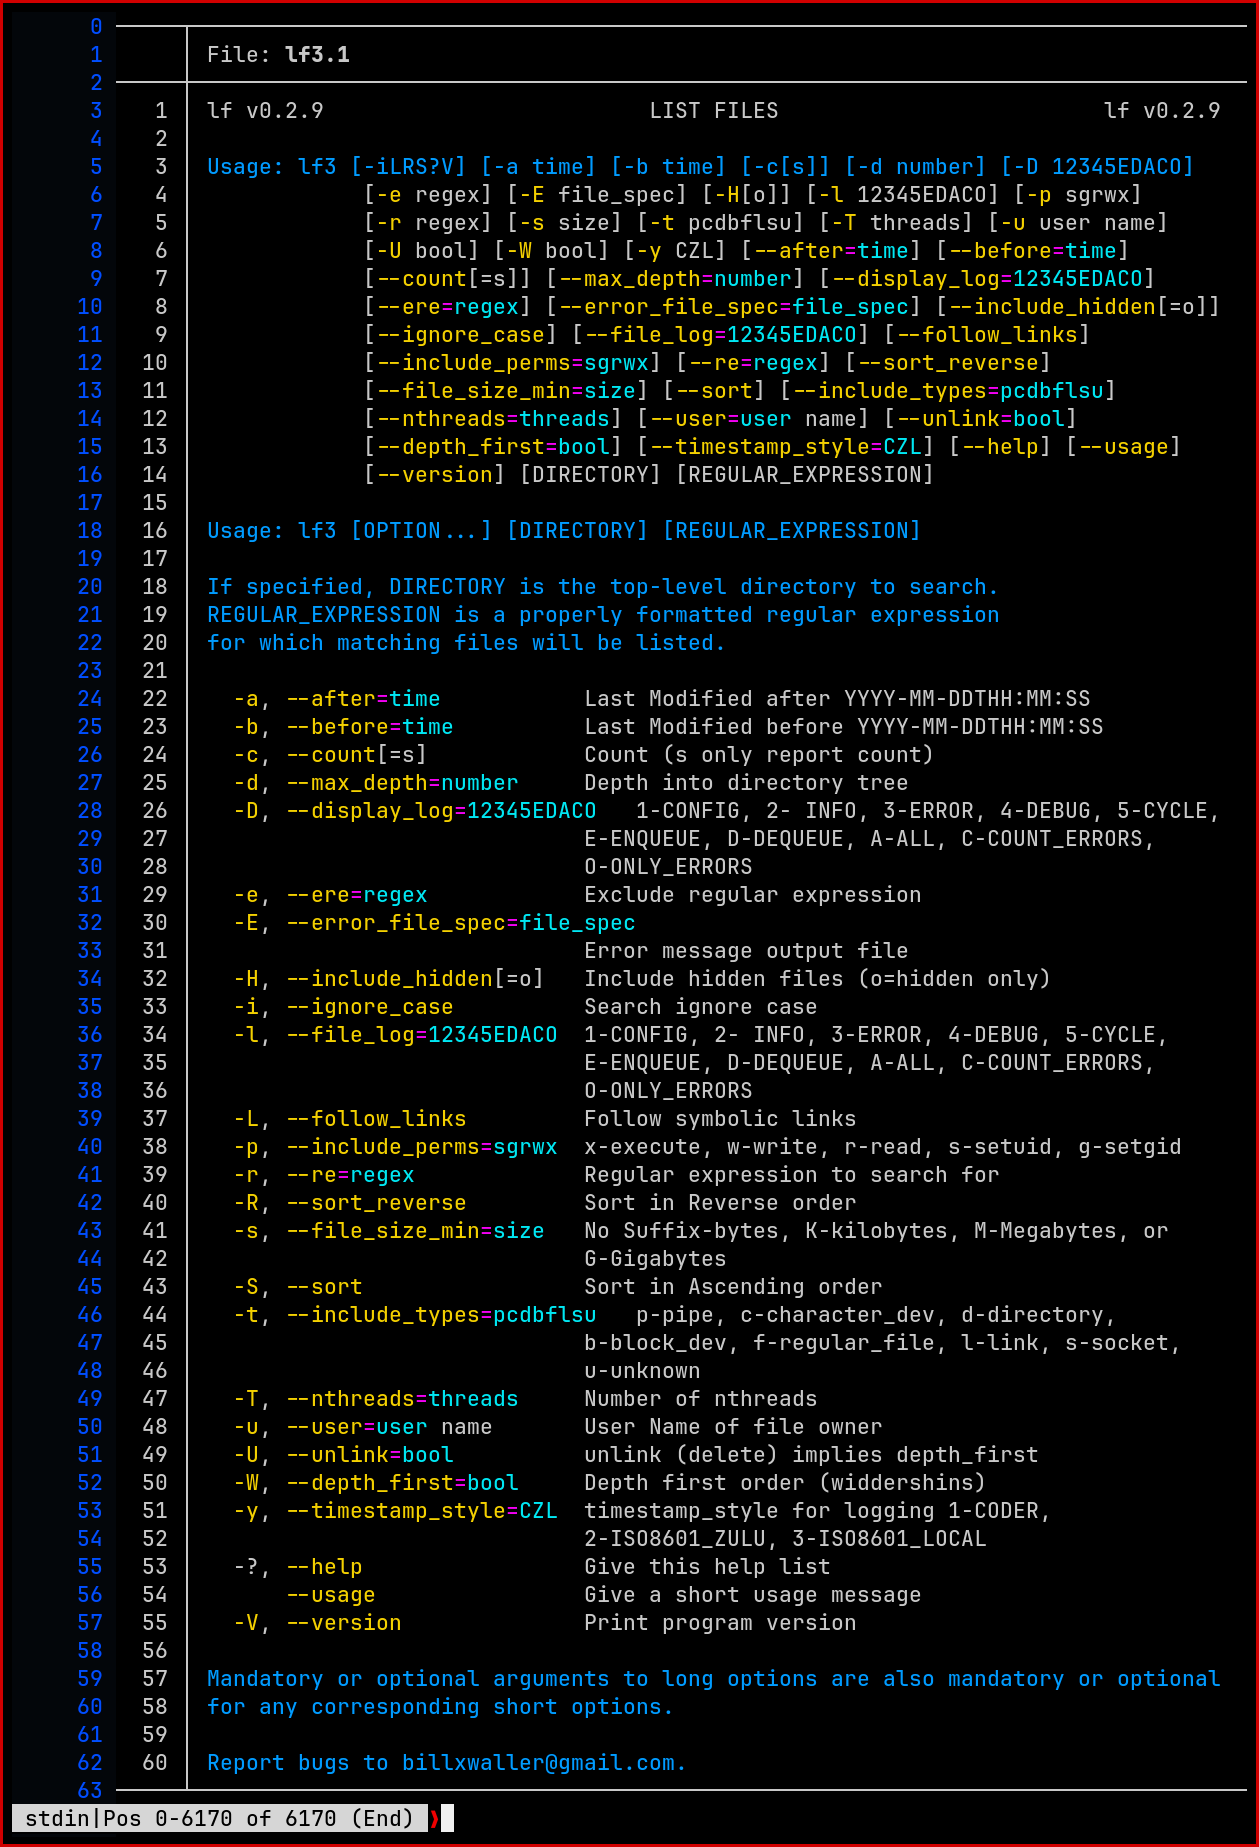
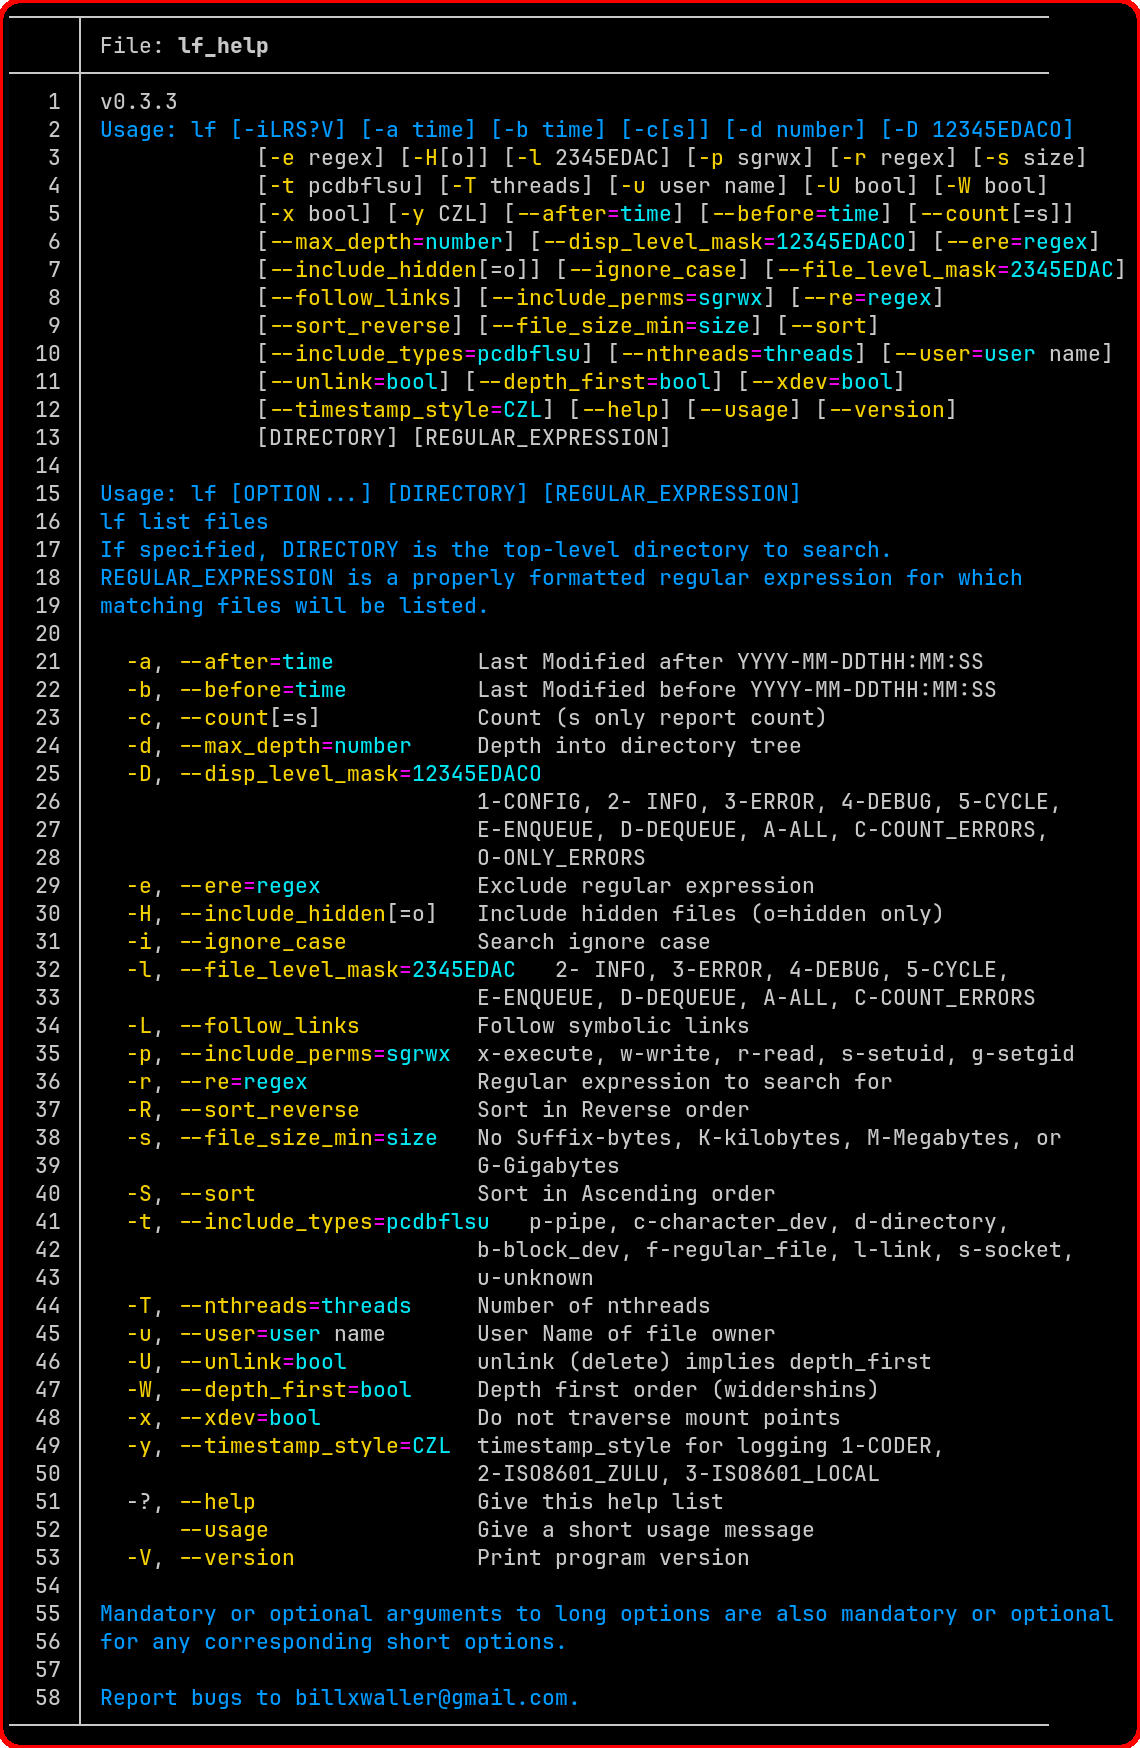
DOCUMENTATION UPDATES

diff --git a/src/lf.c b/src/lf.c
@@ -52,9 +52,9 @@ struct tm tm_info;
 const char *argp_program_version = LF_VERSION;
 const char *argp_program_bug_address = "billxwaller@gmail.com";
 const char doc[] =
-    _("lf list files\nIf specified, DIRECTORY is the top-level\n directory to "
-      "search. REGULAR_EXPRESSION is a properly\nformatted regular expression "
-      "for which matching files\nwill be listed.");
+    _("lf list files\nIf specified, DIRECTORY is the top-level directory to "
+      "search. REGULAR_EXPRESSION is a properly formatted regular expression "
+      "for which matching files will be listed.");
 bool is_hidden(const char *);
 bool is_dirsys(const char *);
 static char args_doc[] = "[DIRECTORY] [REGULAR_EXPRESSION]";
